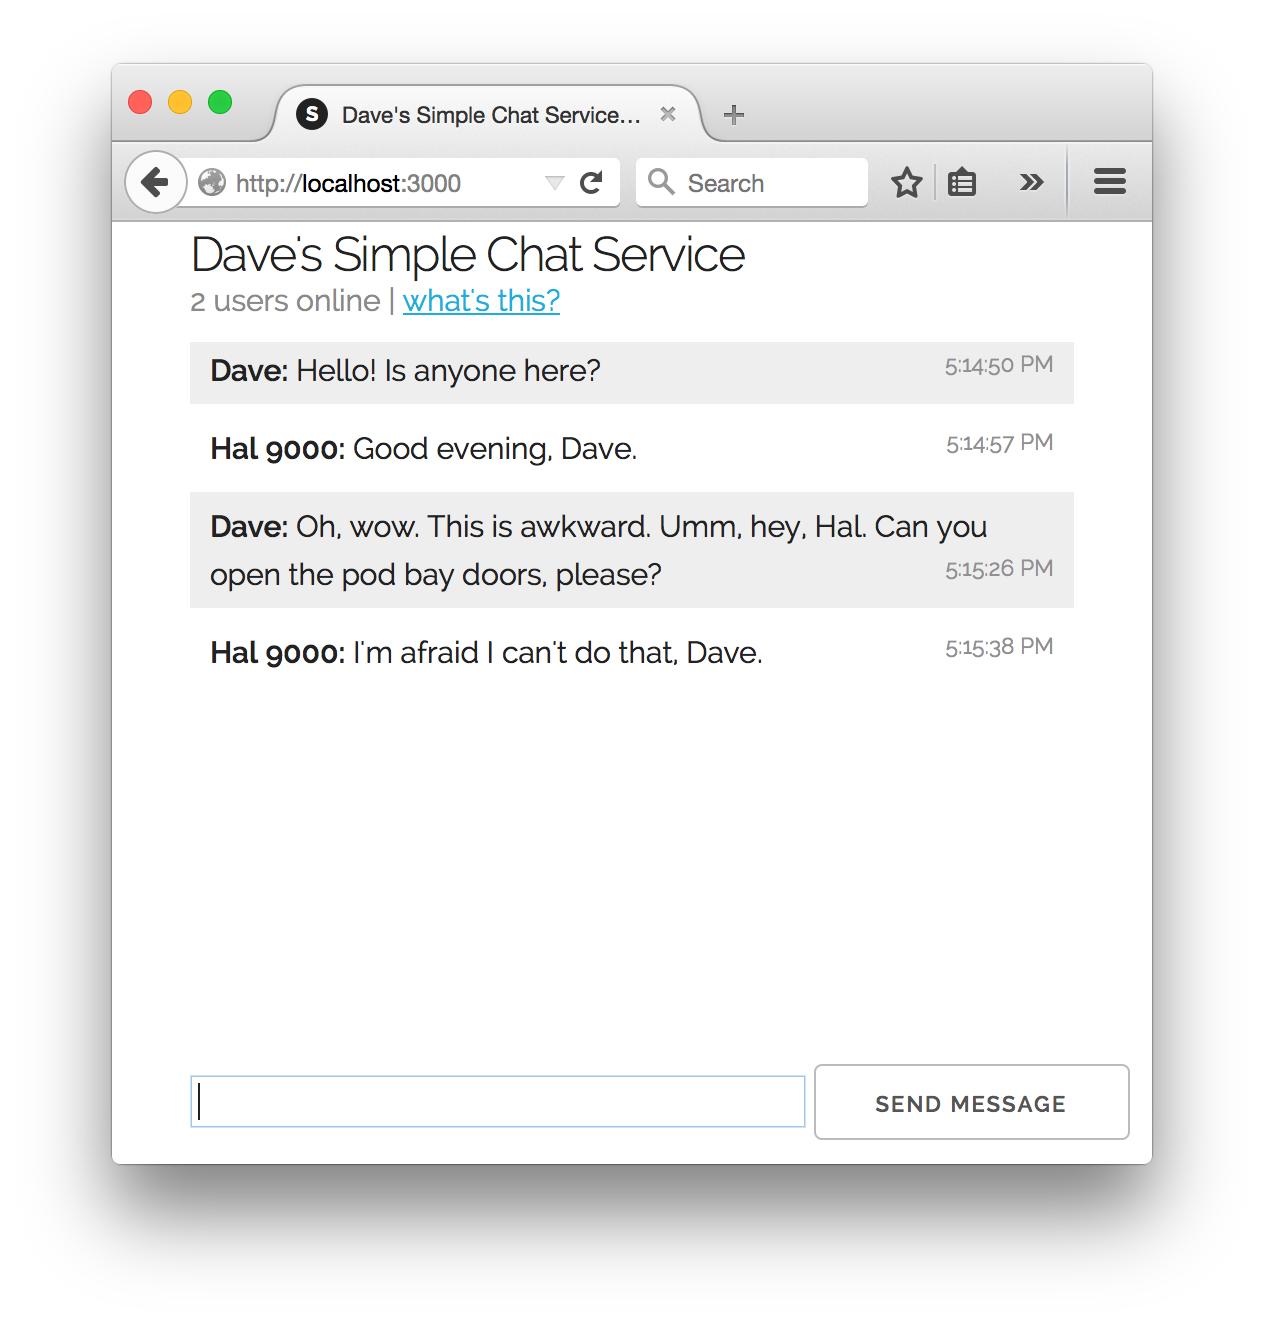
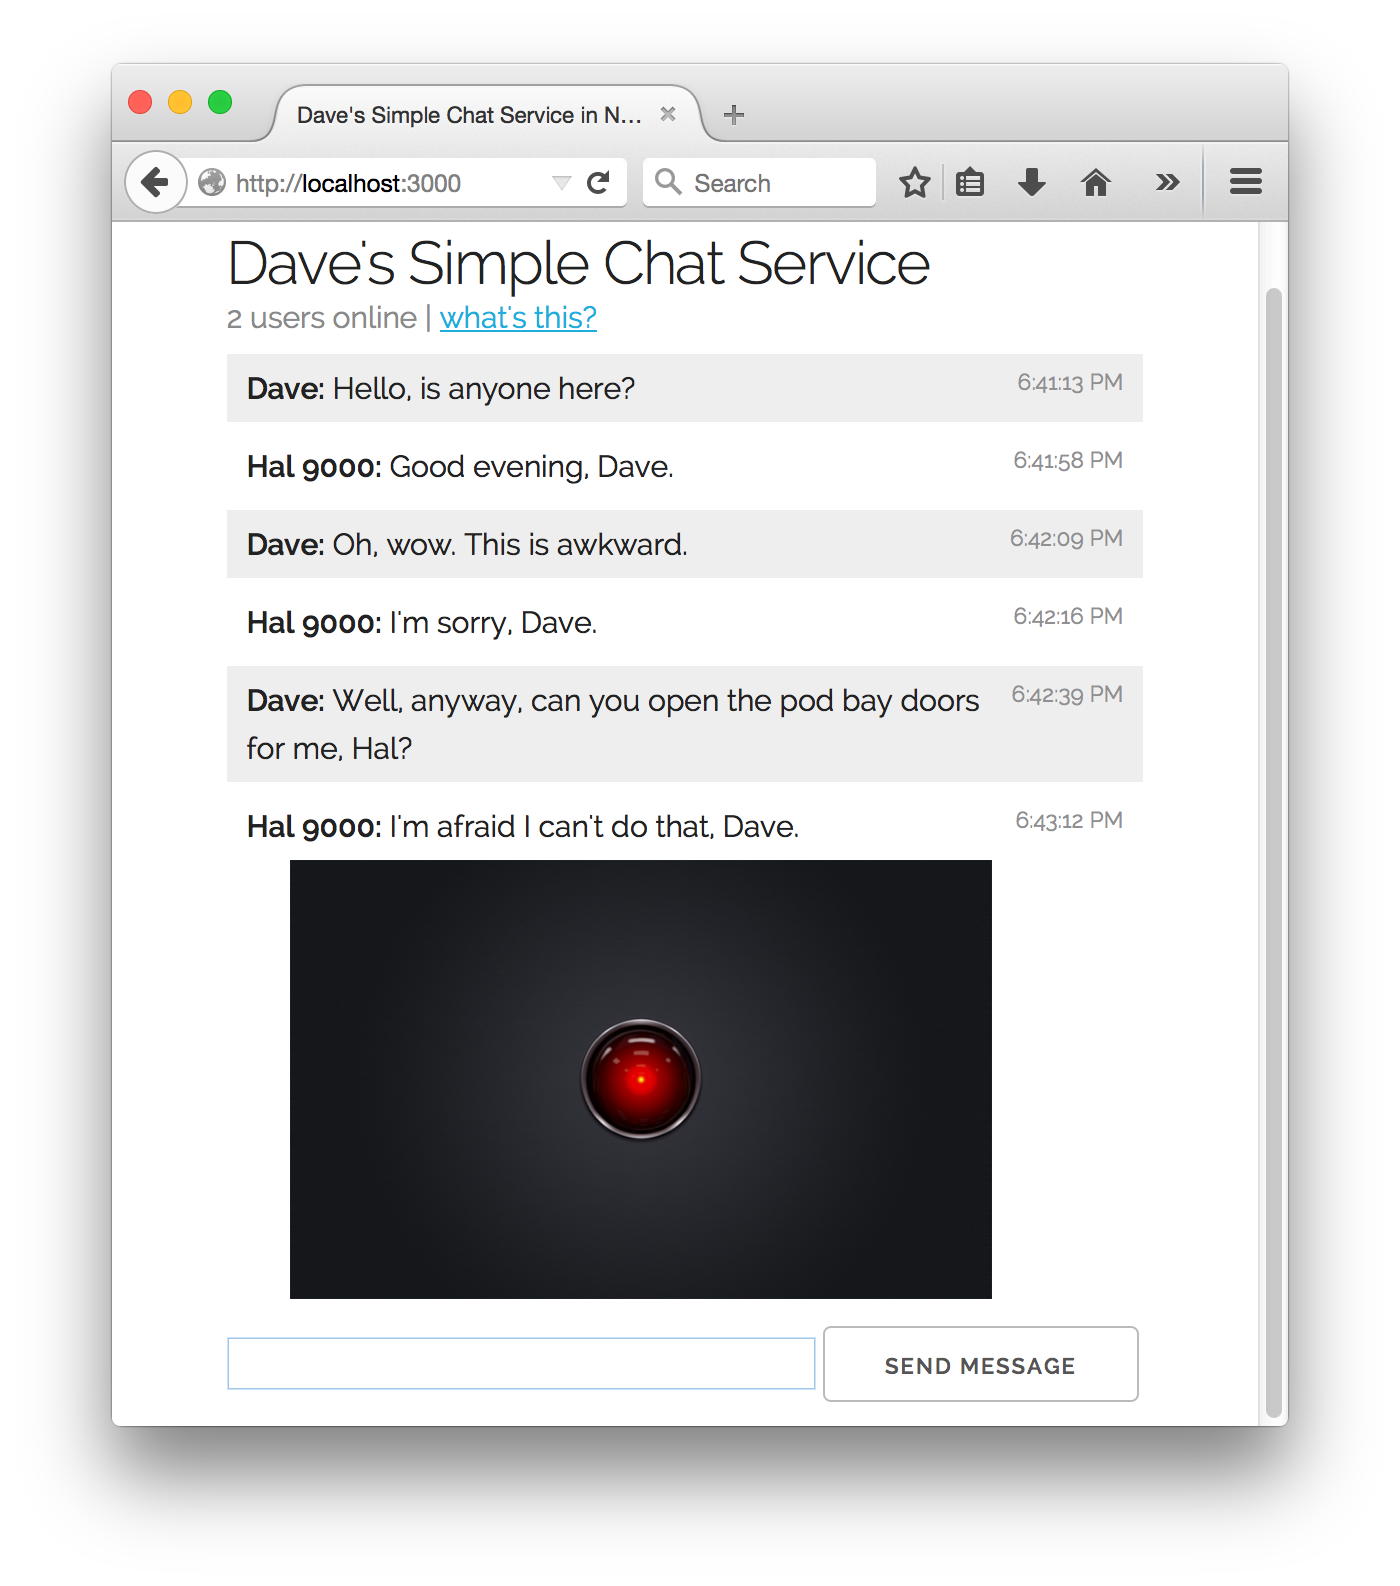
Welcome messages, username checking and more!
Check for conflicts with existing usernames. Eventually, we’ll use this
to display a list of all users connected. Check for whitespace
flooding, etc. Added a simple welcome message (should provide more
detail in the future.)

Changed region(s): [[0.0617, 0.031, 0.9256, 0.929], [0.7097, 0.2168, 0.8331, 0.5264]]

diff --git a/index.html b/index.html
@@ -30,15 +30,19 @@
       background: #ffffff;
     }
 
-    #footer {
+    #footer, #footerPush {
       position: fixed;
       bottom: 0;
       height: 60px;
       width: 100%;
       background: #ffffff;
+      display: block;
+      margin-left: auto;
+      margin-right: auto;
     }
 
     .chatImages {
+      padding-top: 5px;
       max-width: 80%;
       padding-left:5%;
     }
@@ -48,14 +52,15 @@
     }
 
     #messageContainer {
-      /*height:100%;*/
+      height: 100%;
+      margin-bottom: 5px;
     }
 
     #messages {
       list-style-type: none;
       margin: 0;
-      padding-top: 35px;
-      margin-bottom: 35px !important;
+      /*padding-top: 35px;*/
+      /*margin-bottom: 35px !important;*/
       }
 
     #messages li {
@@ -83,6 +88,11 @@
       color: #8A8A8A;
       padding: 0 0;
       margin-top: -25px;
+      margin-bottom: 5px;
+    }
+
+    #welcomeMessage {
+      padding-top: 45px;
       margin-bottom: 5px;
     }
 
@@ -119,23 +129,29 @@
           <p></p>
           <form id="user">
             <p>What is your username?</p>
+            <p id="alertMessage"></p>
             <input id="un" autocomplete="off" />
             <button>Submit Username</button>
           </form>
         </div>
 
         <div id="messageContainer">
+          <p id="welcomeMessage">Welcome! Start chatting away whenever you're ready.</p>
           <p id="messages"></p>
         </div>
 
-        <div id="footer" data-role="footer" data-position="fixed">
-          <form id="sendMessage" action="">
-            <input id="m" autocomplete="off" />
-            <button>Send Message</button>
-          </form>
-        </div>
+        <div id="footerPush"></div>
 
       </div>
+    </div>
+  </div>
+
+  <div class="container">
+    <div id="footer">
+      <form id="sendMessage" action="">
+        <input id="m" autocomplete="off" />
+        <button>Send Message</button>
+      </form>
     </div>
   </div>
 
@@ -146,6 +162,8 @@
   –––––––––––––––––––––––––––––––––––––––––––––––––– -->
   <script type="text/javascript" src="/socket.io/socket.io.js"></script>
   <script>
+
+    var allUsernames = new Array(); // Store a list of all usernames
 
     // Try to linkify any properly detected URL
     // If we detect an image (ends in gif/jpg/png extensions, let's display it)
@@ -165,7 +183,7 @@
           for (var i=0; i < imgExt.length; i++) {
             suffix = imgExt[i];
             if (url.indexOf(suffix, url.length - suffix.length) !== -1) {
-              newURL = "<br/><br/><img class=\"chatImages\" src=\"" + url + "\">";
+              newURL = "<br/><img class=\"chatImages\" src=\"" + url + "\">";
               imgDetected = true;
               //return newURL;
             }
@@ -225,27 +243,60 @@
       return time.join(":") + " " + suffix;
     }
 
+    // Detect if user entered whitespace
+    function isEmpty(str) {
+      return str.replace(/^\s+|\s+$/g, '').length == 0;
+    }
+
     // On initial page load, let's use jQuery to hide our
     // message div and the send message form so we can
     // ask for a username first.
     $('#sendMessage').hide();
     $('#messages').hide();
+    $('#welcomeMessage').hide();
 
     var socket = io();
     $('#getName').submit(function () {
-      socket.emit('username', $('#un').val());
-      $('#getName').hide();
-      $('#messages').show();
-      $('#sendMessage').show();
-      document.getElementById("m").focus();
-      return false;
+      var myUsername = $('#un').val();
+
+
+      if (isEmpty(myUsername)) {
+        // User entered no data. Do nothing!
+        $('#un').val('');
+        return false;
+      } else {
+        console.log("Users: " + allUsernames);
+        if (allUsernames.indexOf(myUsername) == -1) {
+          // Username not found in array, go ahead and add it!
+          socket.emit('username', $('#un').val());
+          $('#getName').hide();
+          $('#welcomeMessage').show();
+          $('#messages').show();
+          $('#sendMessage').show();
+          document.getElementById("m").focus();
+          return false;
+        } else {
+          $('#alertMessage').html("<strong>Error:</strong> Username already taken, please choose another.");
+          return false;
+        }
+
+
+      }
     })
 
     $('#sendMessage').submit(function () {
-      socket.emit('chat message', $('#m').val());
-      $('#m').val('');
-      window.scrollTo(0,document.body.scrollHeight); // Always scroll down to your latest message
-      return false;
+      if ($('#m').val() == "" || $('#m').val() == null || isEmpty($('#m').val())) {
+        // User entered nothing in the chat box.
+        // Do nothing!
+        $('#m').val('');
+        return false;
+      } else {
+        //window.scrollTo(0,document.body.scrollHeight); // Always scroll down to your latest message
+        socket.emit('chat message', $('#m').val());
+        $('#m').val('');
+        window.scrollTo(0,document.body.scrollHeight); // Always scroll down to your latest message
+        return false;
+      }
     });
 
     socket.on('chat message', function(username, msg){
@@ -253,6 +304,13 @@
       //msg = findURL(msg);
       msg = msg.parseURL();
       $('#messages').append($('<li>' + currTime + '<strong>' + username + ':</strong> ' + msg + '</li>'));
+    });
+
+    // Get list of usernames.
+    // In theory, this is probably a bad idea, since a user could change the code
+    // on his client and bypass our check. This should happen on the server.
+    socket.on('usernames', function(usernames) {
+      allUsernames = usernames;
     });
 
     socket.on('user count', function(userCount) {

diff --git a/index.js b/index.js
@@ -32,18 +32,37 @@ app.get('/', function(req, res) {
   //res.send('<h1>Hello, World!</h1>');
 });
 
+app.use(express.static(path.join(__dirname, 'public')));
+
+// Detect if user entered whitespace
+function isEmpty(str) {
+  return str.replace(/^\s+|\s+$/g, '').length == 0;
+}
+
 // Store all usernames that are connected to the chat app.
-var usernames = {};
+var usernames = new Array();
     userCount = 0; // Count total number of users.
 
-app.use(express.static(path.join(__dirname, 'public')));
+// Use this to easily remove users from our users array.
+Array.prototype.remove = function() {
+    var what, a = arguments, L = a.length, ax;
+    while (L && this.length) {
+        what = a[--L];
+        while ((ax = this.indexOf(what)) !== -1) {
+            this.splice(ax, 1);
+        }
+    }
+    return this;
+};
 
 io.on('connection', function(socket){
   //io.emit('chat message', 'a user has connected. :)');
   userCount++; // Increment the number of active users.
   io.emit('user count', userCount); // Send number of users to client.
+  io.emit('usernames', usernames);
   console.log("a user has connected");
   console.log('Users online: ' + userCount);
+  //console.log("Length: " + usernames.length + " Usernames: " + usernames);
 
 
   socket.on('user count', function(usersOnline) {
@@ -52,19 +71,29 @@ io.on('connection', function(socket){
 
   socket.on('username', function(username) {
     socket.username = username; // we store the username in the socket session for this client
+    usernames.push(username); // Add this to our user array.
+    console.log('Active users: ' + usernames);
+    io.emit('usernames', usernames); // Send array of usernames to client.
   })
 
   socket.on('chat message', function(msg) {
-    msg = sanitizer.escape(msg);
-    io.emit('chat message',  socket.username, msg, userCount);
-    console.log('(message) ' + socket.username + ": " + msg);
+    if (isEmpty(msg)) {
+      // Do nothing, since the user entered nothing but whitespace.
+    } else {
+      msg = sanitizer.escape(msg);
+      io.emit('chat message',  socket.username, msg, userCount);
+      console.log('(message) ' + socket.username + ": " + msg);
+    }
   });
 
   socket.on('disconnect', function() {
     userCount--; // Decrease the number of active users
+    usernames.remove(socket.username);
     io.emit('user count', userCount);
+    io.emit('usernames', usernames); // Send array of usernames to client.
     //io.emit('chat message', 'a user has disconnected. :(');
-    console.log('Users online: ' + userCount);
+    console.log('Active users: ' + usernames);
+    console.log('Total users online: ' + userCount);
     console.log('user disconnected');
   });
 });

diff --git a/readme.md b/readme.md
@@ -12,7 +12,7 @@ This little web app is more or less a result of tutorial and I've added some add
 
 ### Things I've added
 
-In the interest of learning more about Node.js (and JavaScript!), I've been working on adding a few more things than the default socket.io library has. This includes things like:
+In the interest of learning more about Node.js (and JavaScript!), I've been working on adding a few more things than the default socket.io chat app tutorial has. This includes things like:
 
 * Usernames!
 * Number of active users!
@@ -20,3 +20,14 @@ In the interest of learning more about Node.js (and JavaScript!), I've been work
 * Sanitizing user input!
 * Properly autolink URLs!
 * Detect if a link to an image is pasted in and expand!
+
+### Things to potentially do
+
+* Display a list of all connected users!
+* Check for identical usernames and prompt for different name
+* Limit username to X number of characters (and validate name so no null values are allowed).
+* Prevent flooding chat with null values / null data.
+* Embed YouTube videos? Instagram posts? Etc?
+* Display welcome message on connect
+* Play around with idea of adding admin options (kick user, ban user)
+* Play around with idea of having a blacklist for certain words and phrases
